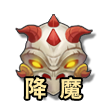
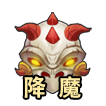
修改字体颜色

diff --git a/client/cocos2d-x-2.2.1/projects/Magpie/Resources/src/view/mainModule/tournamentLayer.js b/client/cocos2d-x-2.2.1/projects/Magpie/Resources/src/view/mainModule/tournamentLayer.js
@@ -110,9 +110,8 @@ var TournamentLayer = cc.Layer.extend({
         this._elixirLabel.setPosition(this._tournamentLayerFit.elixirLabelPoint);
         this.addChild(this._elixirLabel);
 
-        var rewardIcon = cc.Sprite.create(main_scene_image.icon35);
+        var rewardIcon = cc.Sprite.create(main_scene_image.icon412);
         rewardIcon.setPosition(this._tournamentLayerFit.rewardIconPoint);
-        rewardIcon.setScaleX(2.5);
         this.addChild(rewardIcon);
 
         this._rewardLabel = cc.LabelTTF.create("", "STHeitiTC-Medium", 22);
@@ -127,14 +126,14 @@ var TournamentLayer = cc.Layer.extend({
         );
         buyCountItem.setPosition(this._tournamentLayerFit.buyCountItemPoint);
 
-        this._rewardItem = cc.MenuItemImage.create(
-            main_scene_image.button17,
-            main_scene_image.button17s,
-            main_scene_image.button17d,
+        var sprite = cc.Sprite.create(main_scene_image.icon281);
+        this._rewardItem = cc.MenuItemLabel.create(
+            sprite,
             this._onClickRankReward,
             this
         );
 
+        this._rewardItem.setScale(0.55);
         this._rewardItem.setPosition(this._tournamentLayerFit.rewardItemPoint);
 
         var rankItem = cc.MenuItemImage.create(
@@ -245,18 +244,17 @@ var TournamentLayer = cc.Layer.extend({
         if (reward) {
             this._rewardLabel.setString("首次达到 " + reward.ranking + " 名  奖励 " + reward.elixir + " 仙丹");
             this._rewardLabel.setVisible(true);
-            this._rewardItem.setEnabled(reward.canReceive);
 
             if (reward.canReceive) {
                 if (!this._rewardEffect) {
-                    this._rewardEffect = cc.BuilderReader.load(main_scene_image.uiEffect22, this);
+                    this._rewardEffect = cc.BuilderReader.load(main_scene_image.uiEffect77, this);
+                    this._rewardEffect.setScale(0.48);
                     this._rewardEffect.setPosition(this._tournamentLayerFit.rewardItemPoint);
                     this.addChild(this._rewardEffect, 1);
                 }
             }
         } else {
             this._rewardLabel.setString("所有奖励已经领取完");
-            this._rewardItem.setEnabled(false);
         }
     },
 
@@ -407,16 +405,32 @@ var TournamentLayer = cc.Layer.extend({
 
         gameData.sound.playEffect(main_scene_image.click_button_sound, false);
 
+        var reward = gameData.tournament.getLastRankReward();
+        if (!reward.canReceive) {
+            TipLayer.tip("当前没有可领奖励");
+            return;
+        }
+
         var that = this;
+
         gameData.tournament.receive(function (reward) {
-            lz.tipReward(reward);
 
-            if (that._rewardEffect) {
-                that._rewardEffect.removeFromParent();
-                that._rewardEffect = null;
-            }
+            GiftBagLayer.pop({
+                reward: reward,
+                type: GET_GIFT_BAG,
+                titleType: TYPE_LOOK_REWARD,
+                cb: function () {
+                    lz.tipReward(reward);
 
-            that._updateRankRewardItem();
+                    if (that._rewardEffect) {
+                        that._rewardEffect.removeFromParent();
+                        that._rewardEffect = null;
+                    }
+
+                    that._updateRankRewardItem();
+                }
+            });
+
         });
     },
 

diff --git a/client/cocos2d-x-2.2.1/projects/Magpie/Resources/src/view/mainModule/elixirRankHelpLabel.js b/client/cocos2d-x-2.2.1/projects/Magpie/Resources/src/view/mainModule/elixirRankHelpLabel.js
@@ -125,7 +125,7 @@ var ElixirRankHelpLabel = LazyLayer.extend({
 
                 var moneyLabel = cc.LabelTTF.create(reward.money, "STHeitiTC-Medium", 22);
                 moneyLabel.setAnchorPoint(cc.p(0, 0.5));
-                moneyLabel.setColor(cc.c3b(123, 76, 65));
+                moneyLabel.setColor(cc.c3b(108, 41, 41));
                 moneyLabel.setPosition(cc.p(135, y + 28));
                 scrollViewLayer.addChild(moneyLabel);
             }
@@ -138,7 +138,7 @@ var ElixirRankHelpLabel = LazyLayer.extend({
 
                 var energyLabel = cc.LabelTTF.create(reward.energy, "STHeitiTC-Medium", 22);
                 energyLabel.setAnchorPoint(cc.p(0, 0.5));
-                energyLabel.setColor(cc.c3b(123, 76, 65));
+                energyLabel.setColor(cc.c3b(108, 41, 41));
                 energyLabel.setPosition(cc.p(253, y + 28));
                 scrollViewLayer.addChild(energyLabel);
             }
@@ -152,7 +152,7 @@ var ElixirRankHelpLabel = LazyLayer.extend({
 
                 var elixirLabel = cc.LabelTTF.create(reward.elixir, "STHeitiTC-Medium", 22);
                 elixirLabel.setAnchorPoint(cc.p(0, 0.5));
-                elixirLabel.setColor(cc.c3b(123, 76, 65));
+                elixirLabel.setColor(cc.c3b(108, 41, 41));
                 elixirLabel.setPosition(cc.p(362, y + 28));
                 scrollViewLayer.addChild(elixirLabel);
             }
@@ -165,7 +165,7 @@ var ElixirRankHelpLabel = LazyLayer.extend({
 
                 var powerLabel = cc.LabelTTF.create(reward.power, "STHeitiTC-Medium", 22);
                 powerLabel.setAnchorPoint(cc.p(0, 0.5));
-                powerLabel.setColor(cc.c3b(123, 76, 65));
+                powerLabel.setColor(cc.c3b(108, 41, 41));
                 powerLabel.setPosition(cc.p(463, y + 28));
                 scrollViewLayer.addChild(powerLabel);
             }
@@ -178,7 +178,7 @@ var ElixirRankHelpLabel = LazyLayer.extend({
 
                 var expCardLabel = cc.LabelTTF.create(reward.exp_card, "STHeitiTC-Medium", 22);
                 expCardLabel.setAnchorPoint(cc.p(0, 0.5));
-                expCardLabel.setColor(cc.c3b(123, 76, 65));
+                expCardLabel.setColor(cc.c3b(108, 41, 41));
                 expCardLabel.setPosition(cc.p(550, y + 28));
                 scrollViewLayer.addChild(expCardLabel);
             }

diff --git a/client/cocos2d-x-2.2.1/projects/Magpie/Resources/src/view/mainModule/bossListLayer.js b/client/cocos2d-x-2.2.1/projects/Magpie/Resources/src/view/mainModule/bossListLayer.js
@@ -56,10 +56,8 @@ var BossListLayer = cc.Layer.extend({
         titleIcon.setPosition(this._bossListLayerFit.titleIconPoint);
         this.addChild(titleIcon);
 
-        var cdTimeIcon = cc.Sprite.create(main_scene_image.icon35);
+        var cdTimeIcon = cc.Sprite.create(main_scene_image.icon412);
         cdTimeIcon.setPosition(this._bossListLayerFit.cdTimeIconPoint);
-        cdTimeIcon.setScaleX(2.5);
-        cdTimeIcon.setScaleY(1.2);
         this.addChild(cdTimeIcon);
 
         var nextAttackLabel = cc.LabelTTF.create("下次攻击 ", "STHeitiTC-Medium", 22);
@@ -125,11 +123,11 @@ var BossListLayer = cc.Layer.extend({
             this
         );
 
-        this._rewardItem.setScale(0.5);
+        this._rewardItem.setScale(0.55);
         this._rewardItem.setPosition(this._bossListLayerFit.rewardItemPoint);
 
         this._effect = cc.BuilderReader.load(main_scene_image.uiEffect77, this);
-        this._effect.setScale(0.4);
+        this._effect.setScale(0.48);
         this._effect.setPosition(this._bossListLayerFit.rewardItemPoint);
         this.addChild(this._effect);
 
@@ -192,7 +190,6 @@ var BossListLayer = cc.Layer.extend({
         this._superHonorLabel.setString(gameData.player.get("superHonor"));
 
         var isCanReceive = gameData.boss.get("canReceive");
-        this._rewardItem.setEnabled(isCanReceive);
         this._effect.setVisible(isCanReceive);
     },
 
@@ -369,6 +366,12 @@ var BossListLayer = cc.Layer.extend({
         cc.log("BossListLayer _onClickReward");
 
         gameData.sound.playEffect(main_scene_image.click_button_sound, false);
+
+        var isCanReceive = gameData.boss.get("canReceive");
+        if(!isCanReceive) {
+            TipLayer.tip("当前没有可领奖励");
+            return;
+        }
 
         var that = this;
         gameData.boss.getFriendHelpReward(function (data) {

diff --git a/client/cocos2d-x-2.2.1/projects/Magpie/Resources/src/model/boss.js b/client/cocos2d-x-2.2.1/projects/Magpie/Resources/src/model/boss.js
@@ -54,6 +54,8 @@ var Boss = Entity.extend({
 
         this.update(data);
 
+        this.sync();
+
         this.schedule(this._updateCdAndBoss, UPDATE_CD_TIME_INTERVAL);
 
         this.setListener();
@@ -467,10 +469,11 @@ var Boss = Entity.extend({
         }
 
         var rank = this._thisWeek.rank;
+
         if (rank <= 5) {
             return outputTables.boss_rank_reward.rows[rank];
         } else {
-            var honor = outputTables.boss_rank_reward.rows[50].honor;
+            var honor = outputTables.boss_rank_reward.rows[5].honor;
             honor -= parseInt(Math.ceil((rank - 5) / 20) * 0.003 * honor);
             honor = Math.max(2000, honor);
             return {honor: honor}

diff --git a/client/cocos2d-x-2.2.1/projects/Magpie/Resources/src/view/mainModule/damageRankLayer.js b/client/cocos2d-x-2.2.1/projects/Magpie/Resources/src/view/mainModule/damageRankLayer.js
@@ -370,7 +370,7 @@ var DamageRankLayer = LazyLayer.extend({
             this._rankView.addChild(damageLabel);
 
             var damageCountLabel = cc.LabelTTF.create(player.damage, "STHeitiTC-Medium", 22);
-            damageCountLabel.setColor(cc.c3b(123, 76, 65));
+            damageCountLabel.setColor(cc.c3b(108, 41, 41));
             damageCountLabel.setAnchorPoint(cc.p(0, 0.5));
             damageCountLabel.setPosition(cc.p(380, y + 42));
             this._rankView.addChild(damageCountLabel);

diff --git a/client/cocos2d-x-2.2.1/projects/Magpie/Resources/src/view/mainModule/elixirRankLayer.js b/client/cocos2d-x-2.2.1/projects/Magpie/Resources/src/view/mainModule/elixirRankLayer.js
@@ -347,7 +347,7 @@ var ElixirRankLayer = cc.Layer.extend({
             scrollViewLayer.addChild(elixirIcon);
 
             var elixirLabel = cc.LabelTTF.create(player.elixir, "STHeitiTC-Medium", 22);
-            elixirLabel.setColor(cc.c3b(123, 76, 65));
+            elixirLabel.setColor(cc.c3b(108, 41, 41));
             elixirLabel.setAnchorPoint(cc.p(0, 0.5));
             elixirLabel.setPosition(cc.p(450, y + 25));
             scrollViewLayer.addChild(elixirLabel);

diff --git a/client/cocos2d-x-2.2.1/projects/Magpie/Resources/src/resource.js b/client/cocos2d-x-2.2.1/projects/Magpie/Resources/src/resource.js
@@ -727,6 +727,7 @@ var main_scene_image = {
     icon409: main_scene_path + "icon409.png",
     icon410: main_scene_path + "icon410.png",
     icon411: main_scene_path + "icon411.png",
+    icon412: main_scene_path + "icon412.png",
 
     card30000_head1: main_scene_path + "card30000_head1.png",
     card30000_half1: main_scene_path + "card30000_half1.png",

diff --git a/client/cocos2d-x-2.2.1/projects/Magpie/Resources/src/view/mainModule/attackDetailsLayer.js b/client/cocos2d-x-2.2.1/projects/Magpie/Resources/src/view/mainModule/attackDetailsLayer.js
@@ -307,7 +307,6 @@ var AttackDetailsLayer = LazyLayer.extend({
         } else {
             TipLayer.tip("找不到该战报");
         }
-
     },
 
     _onClickDetail: function () {
